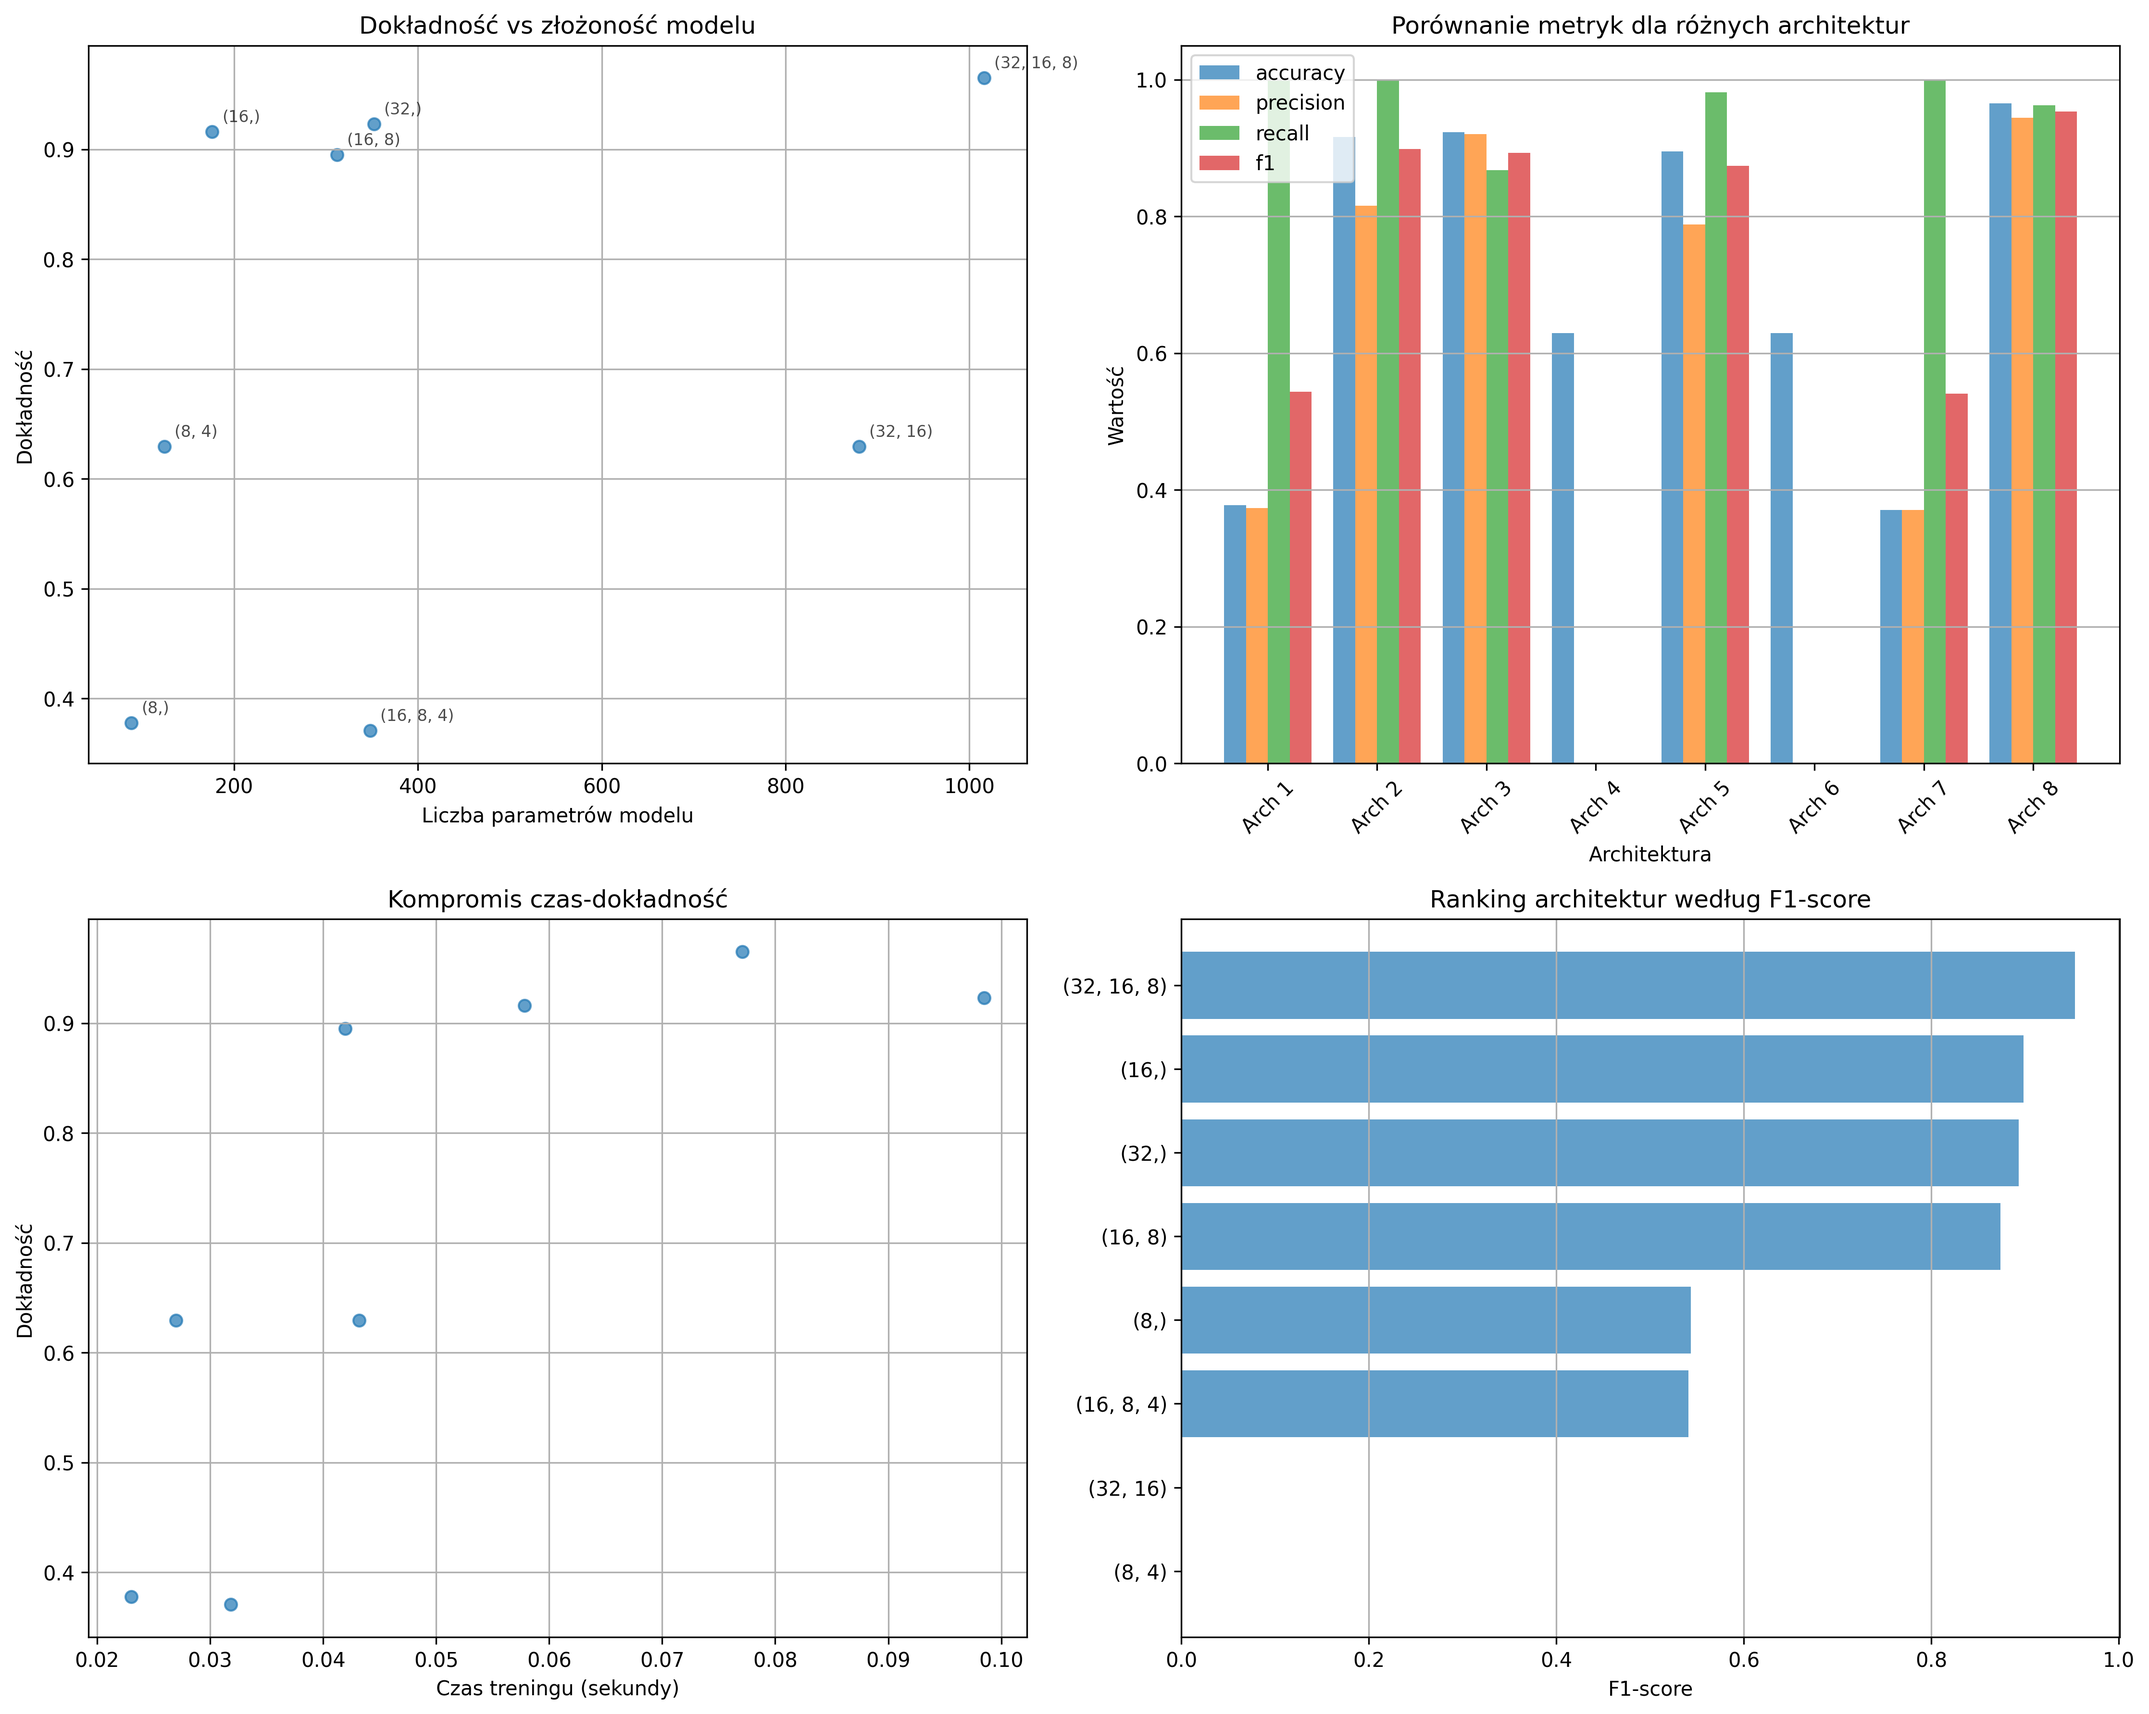
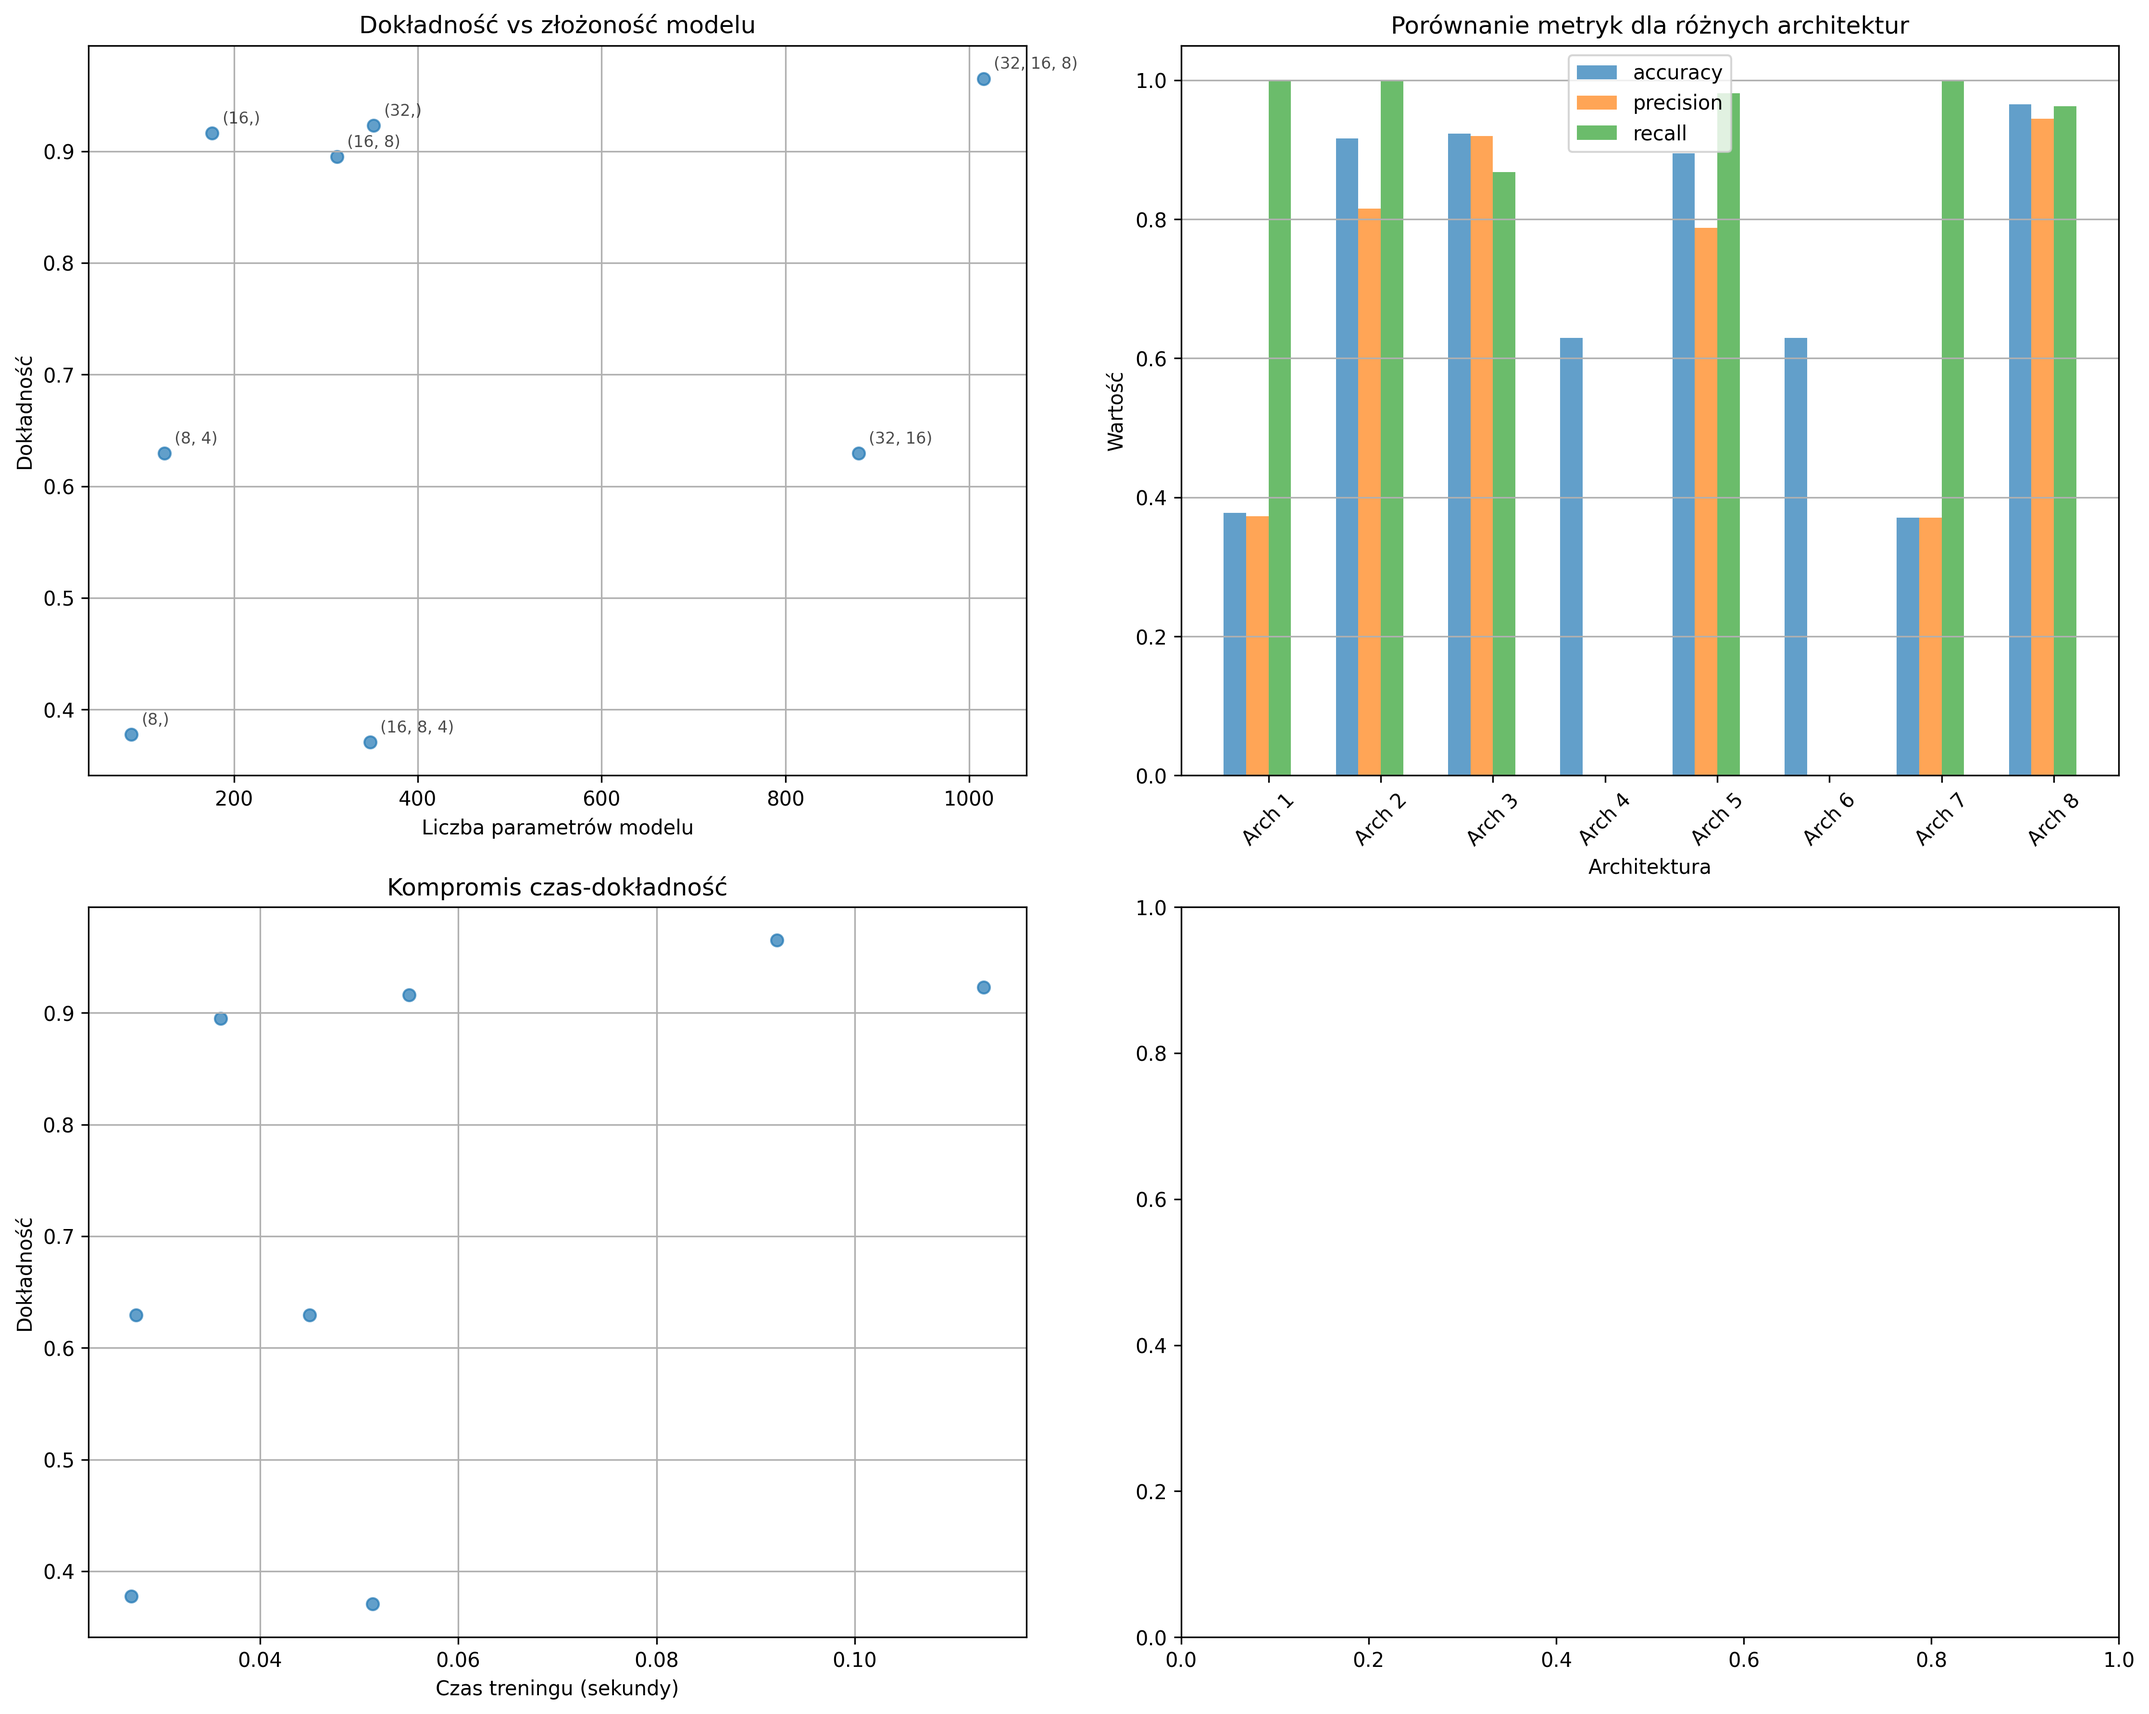
update

diff --git a/src/experiments.py b/src/experiments.py
@@ -1,6 +1,3 @@
-"""
-Moduł odpowiedzialny za eksperymenty z różnymi algorytmami uczenia i parametrami modelu.
-"""
 
 import numpy as np
 import pandas as pd
@@ -8,7 +5,7 @@ import matplotlib.pyplot as plt
 import seaborn as sns
 from sklearn.neural_network import MLPClassifier
 from sklearn.model_selection import GridSearchCV, cross_val_score, StratifiedKFold
-from sklearn.metrics import accuracy_score, precision_score, recall_score, f1_score, roc_auc_score
+from sklearn.metrics import accuracy_score, precision_score, recall_score
 import time
 import os
 import itertools
@@ -78,8 +75,6 @@ def compare_learning_algorithms(X_train, y_train, X_test, y_test):
             accuracy = accuracy_score(y_test, y_pred)
             precision = precision_score(y_test, y_pred)
             recall = recall_score(y_test, y_pred)
-            f1 = f1_score(y_test, y_pred)
-            auc_score = roc_auc_score(y_test, y_pred_proba) if y_pred_proba is not None else None
             
             # Zapisanie wyników
             result = {
@@ -87,8 +82,7 @@ def compare_learning_algorithms(X_train, y_train, X_test, y_test):
                 'accuracy': accuracy,
                 'precision': precision,
                 'recall': recall,
-                'f1': f1,
-                'auc': auc_score,
+
                 'training_time': training_time,
                 'n_iter': model.n_iter_,
                 'converged': model.n_iter_ < model.max_iter
@@ -99,8 +93,6 @@ def compare_learning_algorithms(X_train, y_train, X_test, y_test):
             print(f"  Accuracy: {accuracy:.4f}")
             print(f"  Precision: {precision:.4f}")
             print(f"  Recall: {recall:.4f}")
-            print(f"  F1-score: {f1:.4f}")
-            print(f"  AUC: {auc_score:.4f}" if auc_score else "  AUC: N/A")
             print(f"  Czas treningu: {training_time:.2f}s")
             print(f"  Liczba iteracji: {model.n_iter_}")
             
@@ -129,7 +121,7 @@ def visualize_algorithm_comparison(results_df, filename="algorithm_comparison.pn
     
     # Wykres 1: Porównanie metryk
     ax1 = axes[0, 0]
-    metrics = ['accuracy', 'precision', 'recall', 'f1']
+    metrics = ['accuracy', 'precision', 'recall']
     x = np.arange(len(results_df))
     width = 0.2
     
@@ -160,17 +152,8 @@ def visualize_algorithm_comparison(results_df, filename="algorithm_comparison.pn
     ax3.set_title('Liczba iteracji do konwergencji')
     ax3.grid(True, axis='y')
     
-    # Wykres 4: AUC (jeśli dostępne)
-    ax4 = axes[1, 1]
-    if 'auc' in results_df.columns and not results_df['auc'].isna().all():
-        ax4.bar(results_df['solver'], results_df['auc'], color='purple')
-        ax4.set_xlabel('Algorytm')
-        ax4.set_ylabel('AUC-ROC')
-        ax4.set_title('Pole pod krzywą ROC')
-        ax4.grid(True, axis='y')
-    else:
-        ax4.text(0.5, 0.5, 'AUC niedostępne', ha='center', va='center', transform=ax4.transAxes)
-        ax4.set_title('AUC-ROC')
+   
+       
     
     plt.tight_layout()
     plt.savefig(os.path.join(config.OUTPUT_DIR, "plots", "model", filename), 
@@ -387,8 +370,6 @@ def comprehensive_model_testing(X_train, y_train, X_test, y_test):
         accuracy = accuracy_score(y_test, y_pred)
         precision = precision_score(y_test, y_pred)
         recall = recall_score(y_test, y_pred)
-        f1 = f1_score(y_test, y_pred)
-        auc_score = roc_auc_score(y_test, y_pred_proba)
         
         # Zapisanie wyników
         result = {
@@ -397,8 +378,6 @@ def comprehensive_model_testing(X_train, y_train, X_test, y_test):
             'accuracy': accuracy,
             'precision': precision,
             'recall': recall,
-            'f1': f1,
-            'auc': auc_score,
             'training_time': training_time,
             'n_iter': model.n_iter_
         }
@@ -406,7 +385,6 @@ def comprehensive_model_testing(X_train, y_train, X_test, y_test):
         results.append(result)
         
         print(f"  Accuracy: {accuracy:.4f}")
-        print(f"  F1-score: {f1:.4f}")
         print(f"  Czas treningu: {training_time:.2f}s")
     
     # Konwersja do DataFrame
@@ -444,7 +422,7 @@ def visualize_comprehensive_testing(results_df, filename="comprehensive_testing.
     
     # Wykres 2: Porównanie metryk
     ax2 = axes[0, 1]
-    metrics = ['accuracy', 'precision', 'recall', 'f1']
+    metrics = ['accuracy', 'precision', 'recall']
     x = np.arange(len(results_df))
     width = 0.2
     
@@ -467,18 +445,7 @@ def visualize_comprehensive_testing(results_df, filename="comprehensive_testing.
     ax3.set_title('Kompromis czas-dokładność')
     ax3.grid(True)
     
-    # Wykres 4: Ranking architektur
-    ax4 = axes[1, 1]
-    # Sortujemy według F1-score
-    sorted_results = results_df.sort_values('f1', ascending=True)
-    y_pos = np.arange(len(sorted_results))
-    
-    ax4.barh(y_pos, sorted_results['f1'], alpha=0.7)
-    ax4.set_yticks(y_pos)
-    ax4.set_yticklabels(sorted_results['architecture'])
-    ax4.set_xlabel('F1-score')
-    ax4.set_title('Ranking architektur według F1-score')
-    ax4.grid(True, axis='x')
+   
     
     plt.tight_layout()
     plt.savefig(os.path.join(config.OUTPUT_DIR, "plots", "model", filename), 
